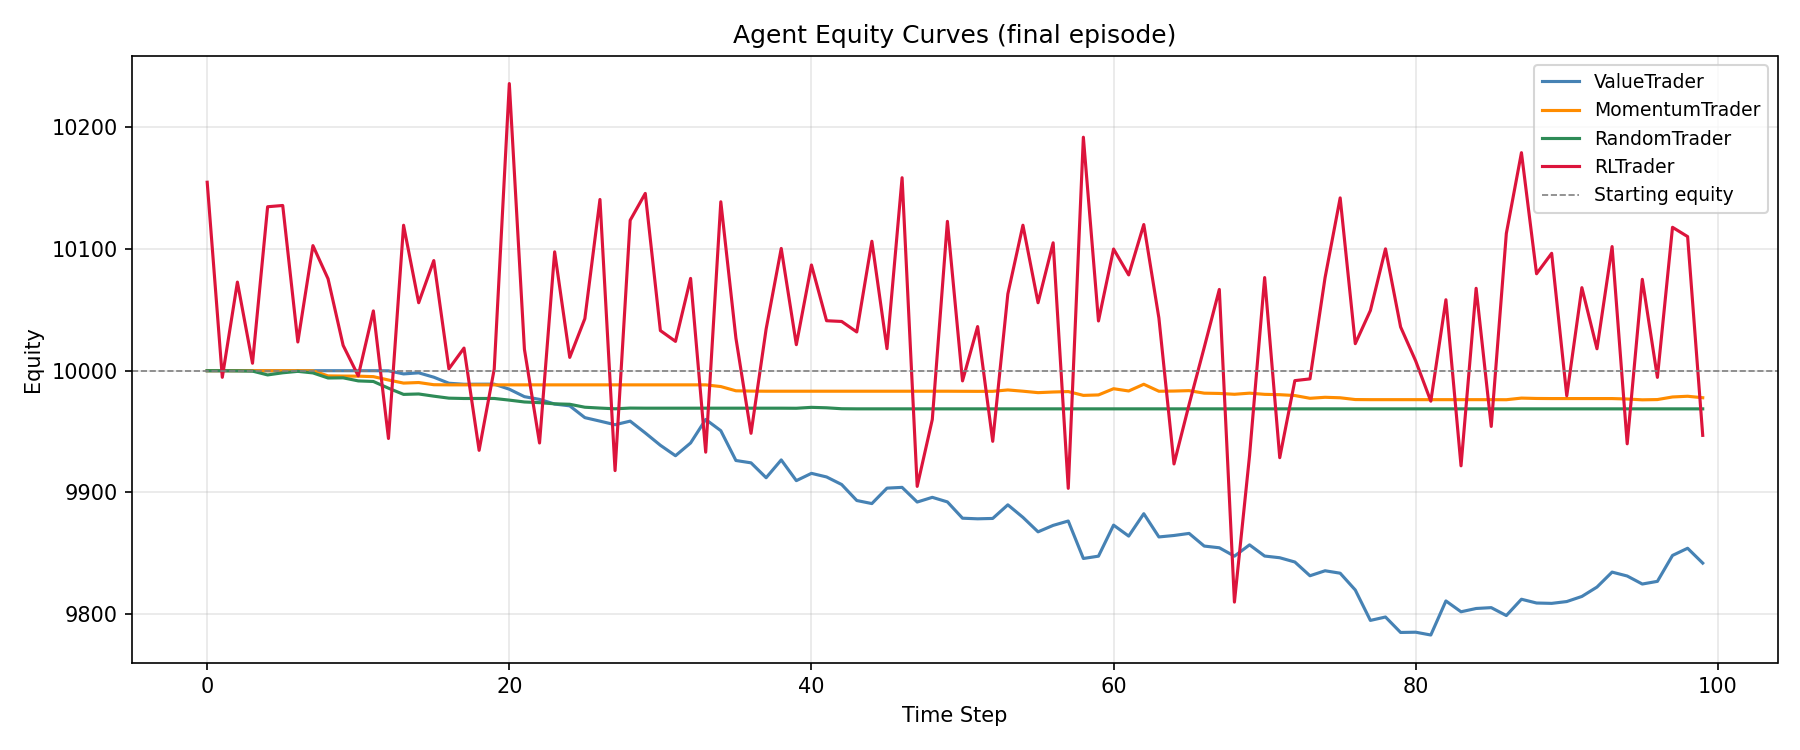
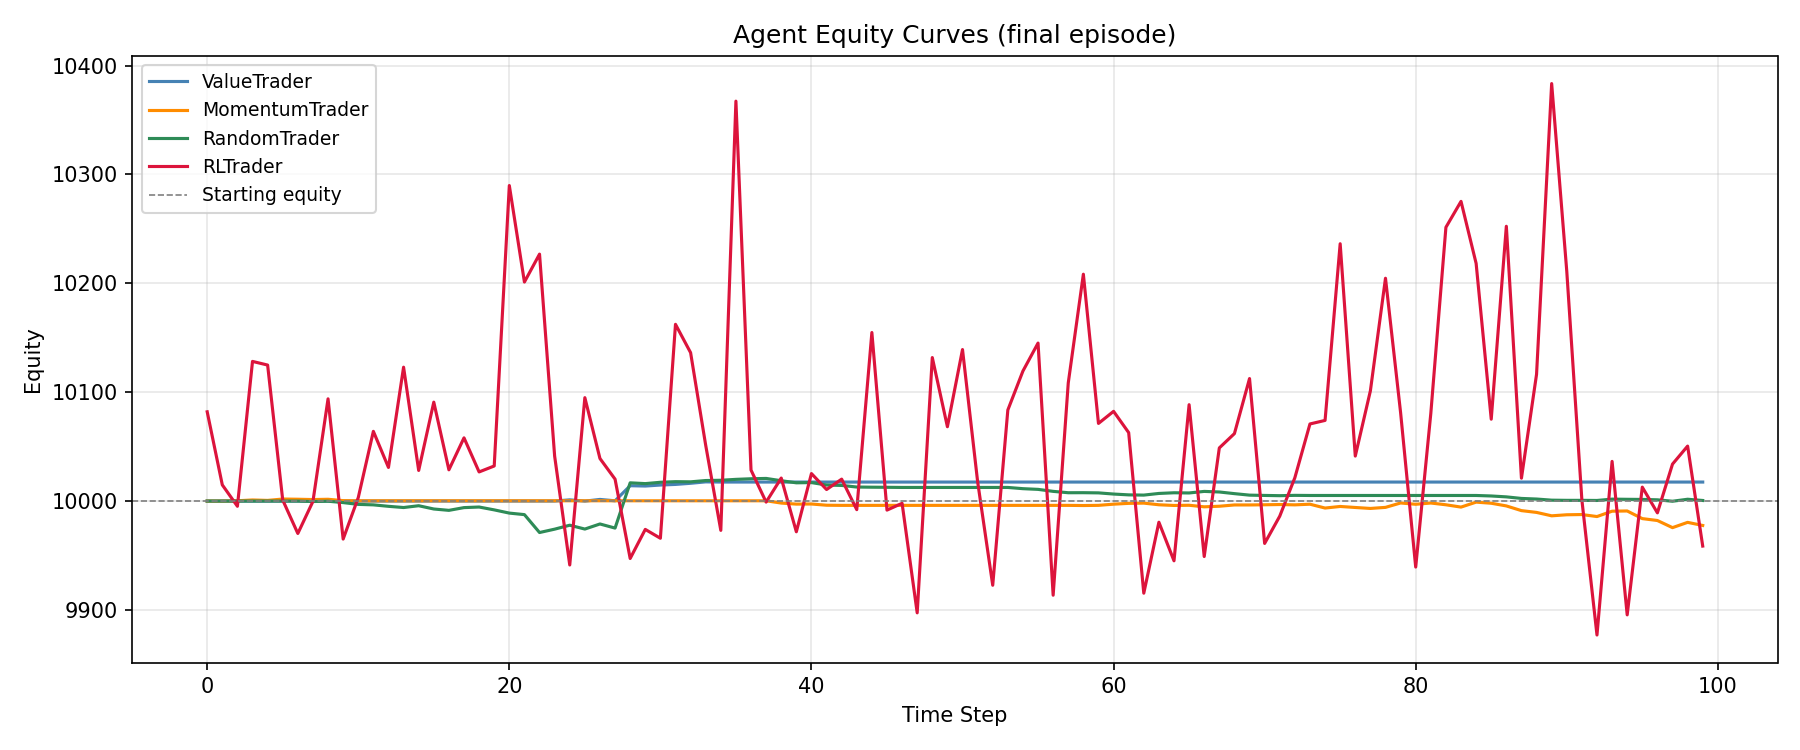
Add module to detect and react to sudden market downturns
Implement a flash-crash detection module that identifies market stress and adjusts trading strategy accordingly.

Replit-Commit-Author: Agent
Replit-Commit-Session-Id: 3826bf3c-e3fd-4317-b321-61e418fea702
Replit-Commit-Checkpoint-Type: full_checkpoint
Replit-Commit-Event-Id: 3c55dc5b-36db-4d32-b797-2c4da0a71842
Replit-Helium-Checkpoint-Created: true

diff --git a/project/simulation/simulation.py b/project/simulation/simulation.py
@@ -170,6 +170,12 @@ class Simulation:
         self.top_risk      = 0
         self.prev_top_risk = 0
 
+        # --- Flash-crash / panic risk flag --------------------------------
+        # 0 = normal, 1 = warning (instability rising), 2 = panic (flash-crash)
+        self.panic_risk      = 0
+        self.prev_panic_risk = 0
+        self.prev_vol_regime = 0.0   # needed to detect sudden vol spikes
+
         # --- Multi-asset rotation engine ----------------------------------
         # rotation_score[asset] ∈ [0, ~4.5] — higher = current leader
         self.rotation_score      = {}   # asset → score this step
@@ -641,6 +647,55 @@ class Simulation:
                 print(_tmsg)
             self.prev_top_risk = self.top_risk
 
+            # --- Flash-crash / panic detection ----------------------------
+            # Uses existing vol_regime, liq_regime, and per-asset prices —
+            # no new data sources needed.
+            _pc_vol = self.vol_regime
+            _pc_liq = self.liq_regime
+
+            # 1. Sudden volatility spike vs the previous step
+            _vol_spike = (_pc_vol - self.prev_vol_regime) > 0.015
+
+            # 2. Liquidity collapse
+            _liq_crash = _pc_liq < 0.2
+
+            # 3. Broad simultaneous selloff across assets
+            _drop_count = 0
+            for _a in self.assets:
+                _ap = self.asset_prices[_a]
+                if len(_ap) > 1:
+                    _r = (_ap[-1] - _ap[-2]) / max(_ap[-2], 1e-6)
+                    if _r < -0.03:   # ≥3% drop in one step
+                        _drop_count += 1
+            _broad_selloff = _drop_count >= 3   # at least 3 assets nuking
+
+            _panic_score = 0
+            if _vol_spike:     _panic_score += 1
+            if _liq_crash:     _panic_score += 1
+            if _broad_selloff: _panic_score += 2   # stronger weight
+
+            if _panic_score >= 3:
+                self.panic_risk = 2   # flash-crash
+            elif _panic_score >= 1:
+                self.panic_risk = 1   # warning
+            else:
+                self.panic_risk = 0   # normal
+
+            setattr(state, "panic_risk", self.panic_risk)
+
+            # Panic feedback: print only on transitions
+            if self.panic_risk != self.prev_panic_risk:
+                if self.panic_risk == 1:
+                    _pmsg = "Panic risk rising — volatility spike detected."
+                elif self.panic_risk == 2:
+                    _pmsg = "Flash-crash conditions detected — emergency de-risking."
+                else:
+                    _pmsg = "Panic risk normalized."
+                self.macro_messages.append(_pmsg)
+                print(_pmsg)
+            self.prev_panic_risk = self.panic_risk
+            self.prev_vol_regime = self.vol_regime   # keep for next-step spike calc
+
             # --- Dynamic exposure caps ------------------------------------
             # Per-asset caps that adapt each step to volatility, liquidity,
             # altseason momentum, and the effective macro regime.
@@ -686,6 +741,12 @@ class Simulation:
                     _cap *= 0.8   # early warning: moderate reduction
                 elif self.top_risk == 2:
                     _cap *= 0.5   # blow-off: de-risk hard
+
+                # Panic mode tightening (stacks with blow-off and regime scaling)
+                if self.panic_risk == 1:
+                    _cap *= 0.6   # warning: cut exposure significantly
+                elif self.panic_risk == 2:
+                    _cap *= 0.3   # emergency: emergency de-risk
 
                 # Rotation tilt: leaders get up to +20% cap
                 # BTC is the anchor so has no rotation score entry (returns 0.0)
@@ -899,6 +960,16 @@ class Simulation:
                             reward -= 1.0 * turnover
                             if step_return < 0:
                                 reward -= 2.0 * abs(step_return)
+
+                        # --- Panic mode reward penalties ------------------
+                        # Teach the agent: don't add size, don't fight the
+                        # crash, cut risk quickly.
+                        if self.panic_risk == 1:
+                            reward -= 0.5 * turnover
+                        elif self.panic_risk == 2:
+                            reward -= 1.5 * turnover
+                            if step_return < 0:
+                                reward -= 3.0 * abs(step_return)
 
                         # --- Rotation leader bonus ------------------------
                         # Small positive signal toward overweighting leaders;
